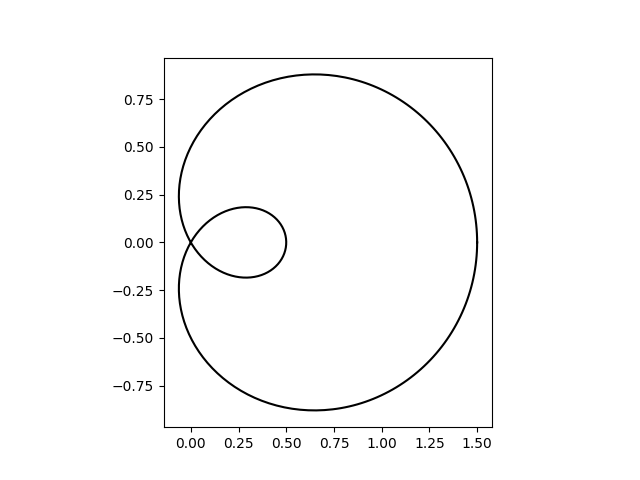
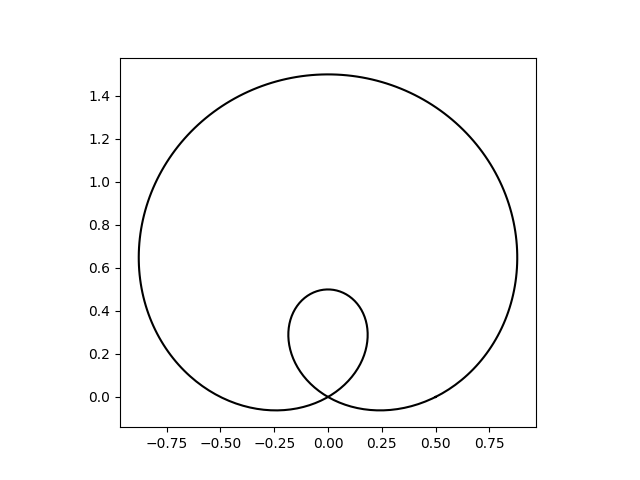
graph

diff --git a/graphing/graphmaker-bar.py b/graphing/graphmaker-bar.py
@@ -6,14 +6,25 @@ import matplotlib.pyplot as plt
 from matplotlib.path import Path
 from matplotlib.patches import PathPatch
 def main():
-    N = 400
-    t = np.linspace(0, 2 * np.pi, N)
-    r = 0.5 + np.cos(t)
-    x, y = r * np.cos(t), r * np.sin(t)
+    point=input("How many point you want to create\n ")
+    if point.isdigit():
+        t = np.linspace(0, 2 * np.pi, int(point))
 
-    fig, ax = plt.subplots()
-    ax.plot(x, y, "k")
-    ax.set(aspect=1)
+        method_choose=input("Press 1 for cos curve, Press 2 for sin curve, Press others for tan")
+        if method_choose=="1":
+            r = 0.5 + np.cos(t)
+            x, y = r * np.cos(t), r * np.sin(t)
+        elif method_choose=="2":
+            r = 0.5 + np.sin(t) 
+            x, y = r * np.cos(t), r * np.sin(t)
+        else:
+            r = 0.5 + np.tan(t)
+            x, y = r * np.cos(t), r * np.sin(t)
+        fig, ax = plt.subplots()
+        ax.plot(x, y, "k")
+        ax.set(aspect=1)
+    else:
+        print("please provide valid number")
     plt.savefig("/home/student/mycode/graphing/2018summaryv2.png")
     plt.savefig("/home/student/static/2018summaryv2.png")
 
